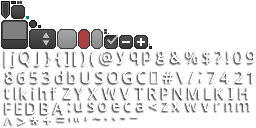
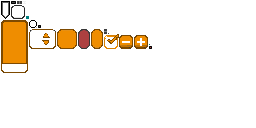
-Update skin, font, and ui components

Changed region(s): [[0.0, 0.0, 1.0, 1.0]]

diff --git a/src/com/blastedstudios/velocitystack/ui/GameplayHUD.java b/src/com/blastedstudios/velocitystack/ui/GameplayHUD.java
@@ -10,14 +10,24 @@ public class GameplayHUD {
 	
 	public GameplayHUD(GameplayScreen screen){
 		this.screen = screen;
-		Window cashWindow = new Window("", screen.getSkin());
-		cashWindow.add(cashLabel = new Label("---------$", screen.getSkin()));
-		cashWindow.pack();
-		cashWindow.setY(Gdx.graphics.getHeight() - cashWindow.getHeight());
-		screen.getStage().addActor(cashWindow);
+		Window bankWindow = new Window("Bank", screen.getSkin());
+		bankWindow.add(new Label(screen.getBank()+"$", screen.getSkin()));
+		bankWindow.pack();
+		bankWindow.setY(Gdx.graphics.getHeight() - bankWindow.getHeight());
+		screen.getStage().addActor(bankWindow);
+		
+		Window currentWindow = new Window("Current", screen.getSkin());
+		currentWindow.add(cashLabel = new Label("---------$", screen.getSkin()));
+		currentWindow.pack();
+		currentWindow.setY(Gdx.graphics.getHeight() - currentWindow.getHeight() - bankWindow.getHeight());
+		screen.getStage().addActor(currentWindow);
+		
+		float width = Math.max(currentWindow.getWidth(), bankWindow.getWidth());
+		currentWindow.setWidth(width);
+		bankWindow.setWidth(width);
 	}
 	
 	public void render(float dt){
-		cashLabel.setText(screen.getCash()+"$");
+		cashLabel.setText(" " + screen.getCash()+"$");
 	}
 }

diff --git a/src/com/blastedstudios/velocitystack/ui/GameplayScreen.java b/src/com/blastedstudios/velocitystack/ui/GameplayScreen.java
@@ -49,17 +49,19 @@ public class GameplayScreen extends AbstractScreen {
 	private final SpriteBatch spriteBatch = new SpriteBatch();
 	private final GameplayHUD hud;
 	private final MainWindow mainWindow;
+	private final long bank;
 	private GameplayMenuWindow gameplayMenu;
 	private long cash;
 	
 	public GameplayScreen(GDXGame game, Skin skin, GDXLevel level, final GDXRenderer gdxRenderer, 
-			File selectedFile, GDXWorld gdxWorld, FileHandle carFileHandle, MainWindow mainWindow) {
+			File selectedFile, GDXWorld gdxWorld, FileHandle carFileHandle, MainWindow mainWindow, long bank) {
 		super(game, skin);
 		this.level = level;
 		this.gdxRenderer = gdxRenderer;
 		this.selectedFile = selectedFile;
 		this.gdxWorld = gdxWorld;
 		this.mainWindow = mainWindow;
+		this.bank = bank;
 		this.cash = 0;
 		world.setContactListener(new ContactListener(this));
 		hud = new GameplayHUD(this);
@@ -182,5 +184,9 @@ public class GameplayScreen extends AbstractScreen {
 
 	public Car getCar() {
 		return car;
+	}
+
+	public long getBank() {
+		return bank;
 	}
 }

diff --git a/src/com/blastedstudios/velocitystack/ui/MainWindow.java b/src/com/blastedstudios/velocitystack/ui/MainWindow.java
@@ -26,7 +26,6 @@ class MainWindow extends Window{
 	public MainWindow(final Skin skin, final GDXGame game, final GDXWorld gdxWorld, 
 			final File worldFile, final GDXRenderer gdxRenderer) {
 		super("Velocity Stack", skin);
-		setColor(MainScreen.WINDOW_ALPHA_COLOR);
 		final TextButton exitButton = new TextButton("Exit", skin);
 		exitButton.addListener(new ClickListener() {
 			@Override public void clicked(InputEvent event, float x, float y) {
@@ -60,7 +59,7 @@ class MainWindow extends Window{
 			button.addListener(new ClickListener() {
 				@Override public void clicked(InputEvent event, float x, float y) {
 					game.pushScreen(new GameplayScreen(game, skin, level, gdxRenderer, 
-							worldFile, gdxWorld, carFileHandle, MainWindow.this));
+							worldFile, gdxWorld, carFileHandle, MainWindow.this, cash));
 				}
 			});
 			levelTable.add(button);

diff --git a/src/com/blastedstudios/velocitystack/ui/GameplayMenuWindow.java b/src/com/blastedstudios/velocitystack/ui/GameplayMenuWindow.java
@@ -10,7 +10,7 @@ import com.badlogic.gdx.scenes.scene2d.utils.ClickListener;
 
 public class GameplayMenuWindow extends Window{
 	public GameplayMenuWindow(final GameplayScreen screen, Skin skin, final IRemovedListener listener) {
-		super("Pause", skin);
+		super("Quit", skin);
 		final TextButton okButton = new TextButton("OK", skin);
 		okButton.addListener(new ClickListener() {
 			@Override public void clicked(InputEvent event, float x, float y) {
@@ -25,7 +25,7 @@ public class GameplayMenuWindow extends Window{
 				listener.removed();
 			}
 		});
-		add(new Label("Are you sure you want to quit? You will lose half of what you gained in the level!", skin)).colspan(2);
+		add(new Label("Are you sure you want to quit?\nYou will lose half of what you\ngained in the level!", skin)).colspan(2);
 		row();
 		add(okButton);
 		add(cancelButton);

diff --git a/src/com/blastedstudios/velocitystack/ui/MainScreen.java b/src/com/blastedstudios/velocitystack/ui/MainScreen.java
@@ -4,7 +4,6 @@ import java.io.File;
 
 import com.badlogic.gdx.Gdx;
 import com.badlogic.gdx.Input.Keys;
-import com.badlogic.gdx.graphics.Color;
 import com.blastedstudios.gdxworld.ui.AbstractScreen;
 import com.blastedstudios.gdxworld.ui.GDXRenderer;
 import com.blastedstudios.gdxworld.ui.worldeditor.WorldEditorScreen;
@@ -13,7 +12,6 @@ import com.blastedstudios.gdxworld.util.Properties;
 import com.blastedstudios.gdxworld.world.GDXWorld;
 
 public class MainScreen extends AbstractScreen {
-	public static final Color WINDOW_ALPHA_COLOR = new Color(1, 1, 1, .7f);
 	private static final File WORLD_FILE = Gdx.files.internal(Properties.get("world.path")).file();
 	private final GDXWorld gdxWorld = GDXWorld.load(WORLD_FILE);
 	private final GDXRenderer gdxRenderer;
